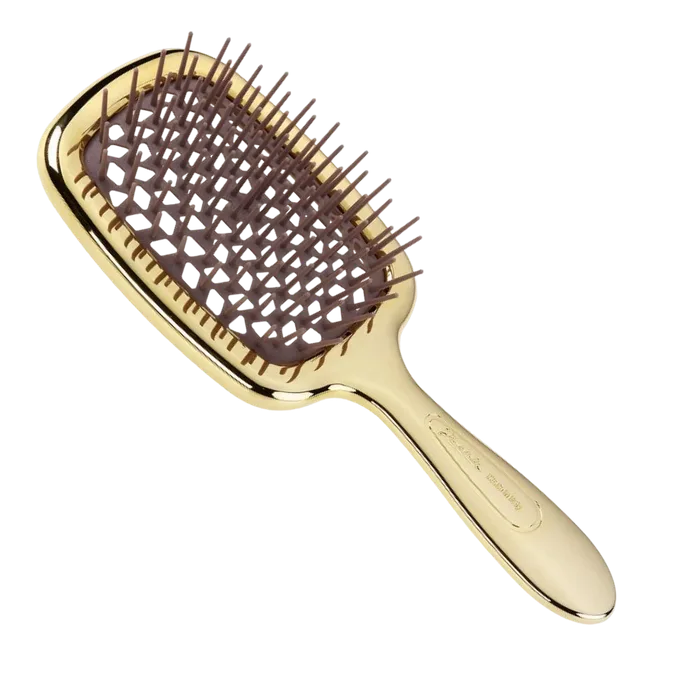
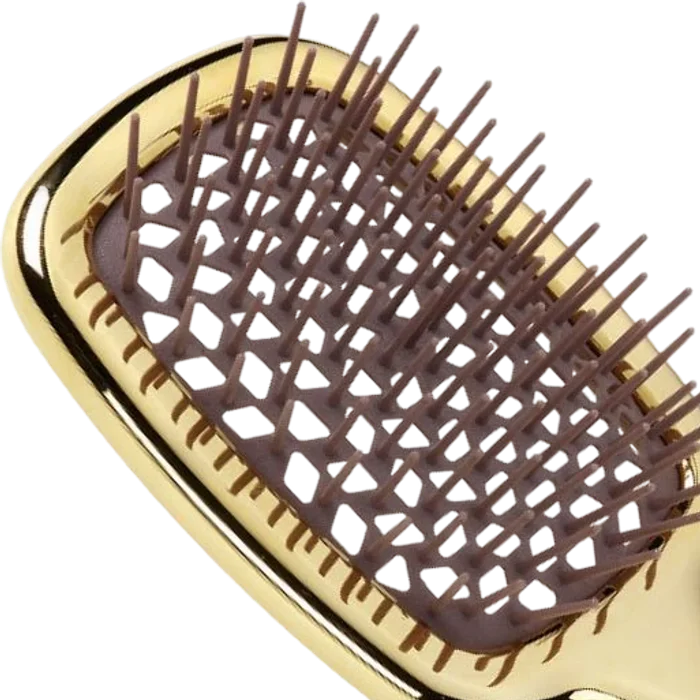
Janeke: แก้ผนังรูปให้ตรงกับ Figma
สามเรื่องที่ไม่ตรง

ลูกศรยืดผิดสัดส่วน ไฟล์ SVG ที่ export มาตั้ง preserveAspectRatio
เป็น none แปลว่าดีไซน์ตั้งใจให้ยืดเข้ากล่องของมันเอง พอให้แค่ความ
กว้างแล้วปล่อย h-auto เบราว์เซอร์เลยย้อนไปใช้ขอบเขตของ path เอง
ซึ่งของลูกศรกลางคือ 65x192 กลายเป็นเส้นหยักยักษ์พาดข้างรูป ตอนนี้
กำหนดทั้งกว้างและสูงตามพิกัดใน Figma

คำเขียนมือตัดบรรทัดเกิน ดีไซน์วางไว้สองบรรทัด แต่ของจริงกลายเป็น
สามถึงสี่ ใส่ whitespace-nowrap แล้วลดขนาดจาก 2.5cqw เหลือ 2.1cqw

รูปในโพลารอยด์ขวากลางเป็นแปรงทั้งด้าม ไม่ใช่หัวแปรง คำว่า Let Your
Hair Breath ชี้ไปที่ช่องระบายอากาศบนหัวแปรง เลยครอปเฉพาะหัวมาแทน

diff --git a/src/components/janeke/Hero.tsx b/src/components/janeke/Hero.tsx
@@ -23,17 +23,22 @@ import Reveal, { RevealGroup, RevealItem } from "./Reveal";
  * shows through the holes.
  */
 
+// Straight off the design's own coordinates, against its 1600×1920 box.
 const NOTES = [
-  // Placed against the 1600×1920 box, the same coordinates the design uses.
-  { text: ["Light On", "Your Hand"], left: "41.5%", top: "9.5%", width: "14%", delay: 0.1 },
-  { text: ["Let Your Hair", "Breath"], left: "77.5%", top: "66.5%", width: "17%", delay: 0.2 },
-  { text: ["Less Tugging", "More Moving"], left: "34.5%", top: "89%", width: "16%", delay: 0.3 },
+  { text: ["Light On", "Your Hand"], left: "41.5%", top: "10%", width: "12.5%", delay: 0.1 },
+  { text: ["Let Your Hair", "Breath"], left: "78%", top: "67.1%", width: "16.3%", delay: 0.2 },
+  { text: ["Less Tugging", "More Moving"], left: "34.6%", top: "89.8%", width: "14.6%", delay: 0.3 },
 ];
 
+// Height as well as width, and not by accident: these files are exported with
+// preserveAspectRatio="none", so the design stretches each one into its own
+// box. Given only a width, the browser falls back to the path's own bounds —
+// which for the middle arrow is 65×192, and it drew as a giant vertical
+// squiggle down the side of the picture.
 const ARROWS = [
-  { src: "/janeke/arrow-1.svg", left: "28.4%", top: "15.3%", width: "12.7%", delay: 0.2 },
-  { src: "/janeke/arrow-2.svg", left: "85.5%", top: "58.7%", width: "11.2%", delay: 0.3 },
-  { src: "/janeke/arrow-3.svg", left: "25.5%", top: "88%", width: "7.1%", delay: 0.4 },
+  { src: "/janeke/arrow-1.svg", left: "28.4%", top: "15.3%", width: "12.7%", height: "6.7%", delay: 0.2 },
+  { src: "/janeke/arrow-2.svg", left: "85.5%", top: "58.8%", width: "11.2%", height: "8.4%", delay: 0.3 },
+  { src: "/janeke/arrow-3.svg", left: "25.5%", top: "88%", width: "7.1%", height: "4.3%", delay: 0.4 },
 ];
 
 const PRINTS = [
@@ -186,9 +191,9 @@ export default function JanekeHero() {
               key={a.src}
               delay={a.delay}
               className="absolute hidden @lg:block"
-              style={{ left: a.left, top: a.top, width: a.width }}
+              style={{ left: a.left, top: a.top, width: a.width, height: a.height }}
             >
-              <Image src={a.src} alt="" width={200} height={160} className="h-auto w-full" />
+              <Image src={a.src} alt="" width={200} height={160} className="size-full" />
             </Reveal>
           ))}
 
@@ -199,7 +204,9 @@ export default function JanekeHero() {
               className="absolute hidden @lg:block"
               style={{ left: n.left, top: n.top, width: n.width }}
             >
-              <p className={`${script.className} text-center text-[2.5cqw] leading-snug text-[#8a7265]`}>
+              <p
+                className={`${script.className} whitespace-nowrap text-center text-[2.1cqw] leading-[1.5] text-[#8a7265]`}
+              >
                 {n.text[0]}
                 <br />
                 {n.text[1]}
